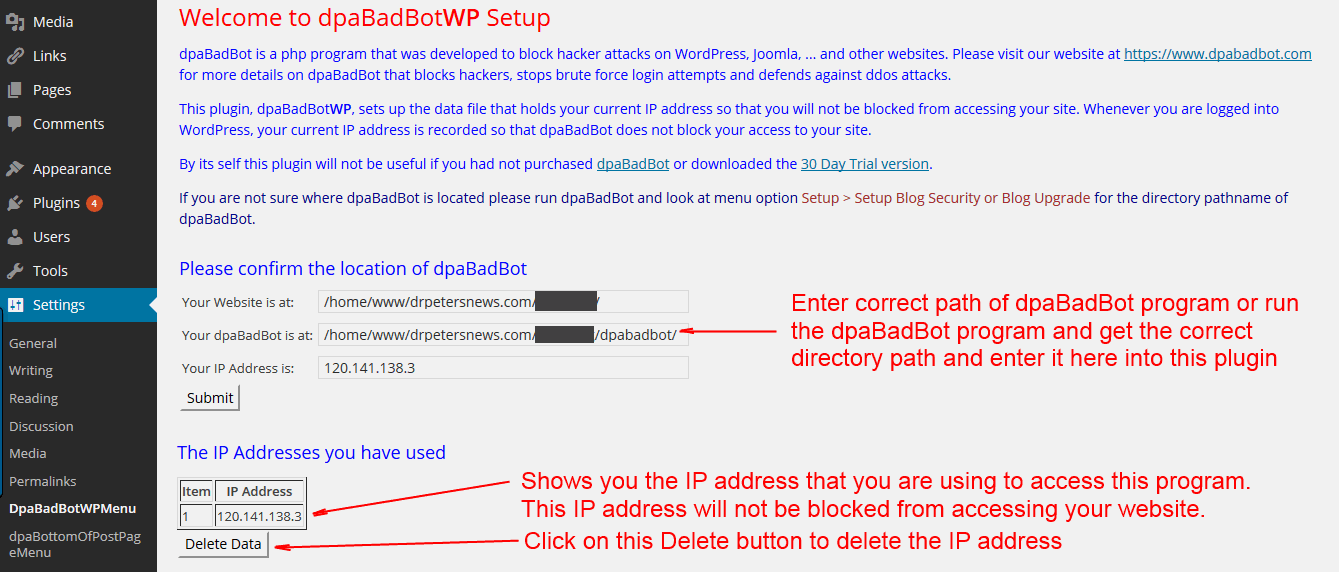
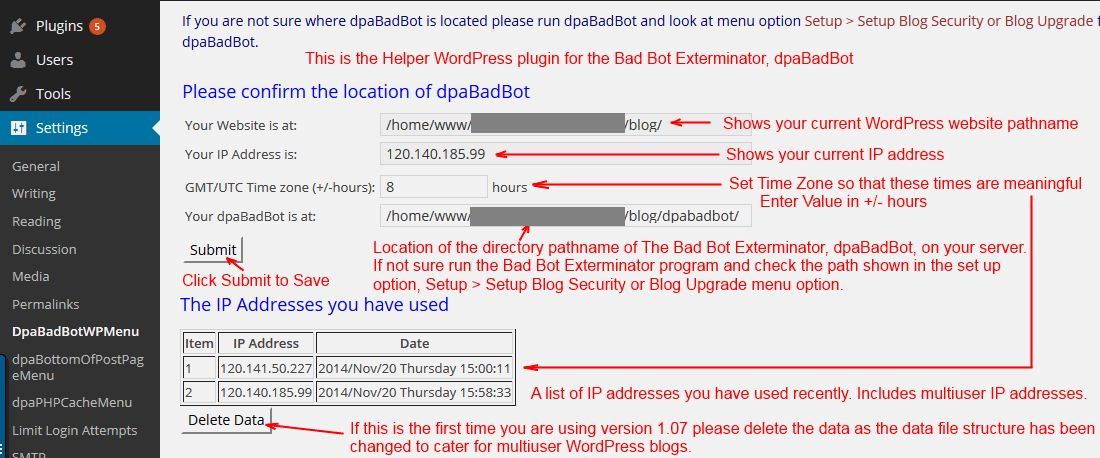
upgraded to handle multi user sites
git-svn-id: https://plugins.svn.wordpress.org/dpabadbotwp/trunk@1029337 b8457f37-d9ea-0310-8a92-e5e31aec5664

Changed region(s): [[0.0, 0.0, 1.0, 1.0]]

diff --git a/spmy_dpabadbot_form.php b/spmy_dpabadbot_form.php
@@ -3,36 +3,53 @@ defined('ABSPATH') or die("No script kiddies please!");
 //include 'spmyfunctions.php';
 
 
-
 //$spmy_dpabadbot_setup_file = $installbase.'wp-content/plugins/dpabadbotwp/setup.txt';
 $spmy_dpabadbot_setup_file = dirname(__FILE__) .'/setup.txt';
 $wppathstr = str_replace( 'wp-content/plugins/dpabadbotwp/setup.txt', '', $spmy_dpabadbot_setup_file);
 $spmy_dpabadbot_setup_tmp = spmy_dpabadbot_read_file( $spmy_dpabadbot_setup_file );
 $spmy_dpabadbot_setup_data = unserialize( $spmy_dpabadbot_setup_tmp );
 $spmy_dpabadbot_setup_sz = count( $spmy_dpabadbot_setup_data );
-if( strlen( $spmy_dpabadbot_setup_tmp ) > 2 && $spmy_dpabadbot_setup_sz > 0 ){
-	$spmy_dpabadbot_path = $spmy_dpabadbot_setup_data;
-//	echo '<br>set up file has data';
-}
 
+if( strlen( $spmy_dpabadbot_setup_tmp ) > 2 && $spmy_dpabadbot_setup_sz > 0 ){
+	$spmy_dpabadbot_path = $spmy_dpabadbot_setup_data[0];
+	$spmy_dpabadbot_GMThours = $spmy_dpabadbot_setup_data[1]/3600;
+//	echo '<br>set up file has data';
+} else {
+	$spmy_dpabadbot_path = '';
+	$spmy_dpabadbot_setup_data[0] = '';
+	$spmy_dpabadbot_GMThours = 0;
+	$spmy_dpabadbot_setup_data[1] = 0;
+}
+spmy_dpabadbot_write_file( $spmy_dpabadbot_setup_file, serialize( $spmy_dpabadbot_setup_data ) );
+//echo '<br>GMT is: '.$spmy_dpabadbot_GMThours.' ';
 
 if( $_POST[spmy_dpabadbot_setup] == 'Submit' ){
-//echo '<br>Yes Submit detected';
-if( isset( $_POST[spmy_dpabadbotsite] ) ) {
+unset($spmy_dpabadbot_setup_data ) ;
+
+//if( isset( $_POST[spmy_dpabadbotsite] ) ) {
 	$spmy_dpabadbot_sitenow = esc_url( trim( $_POST[spmy_dpabadbotsite] ) ); 
 	$spmy_dpabadbot_sitenow =  rtrim( trim( $spmy_dpabadbot_sitenow ), '/'); 	
 	$spmy_dpabadbot_sitenow = $spmy_dpabadbot_sitenow.'/';
 	$spmy_dpabadbot_path = $spmy_dpabadbot_sitenow ;
+//	echo '<br>sitenow is: '.$spmy_dpabadbot_sitenow.', path: '.$spmy_dpabadbot_path.'  ';
 	if( file_exists( $spmy_dpabadbot_sitenow ) ){
 		$spmy_dpabadbot_nofile = '<span style="color:blue;">'.$spmy_dpabadbot_sitenow.'</span><span style="color:green;"> directory exists</span>';
-		spmy_dpabadbot_write_file( $spmy_dpabadbot_setup_file, serialize( $spmy_dpabadbot_sitenow) );
+		$spmy_dpabadbot_setup_data[0] = $spmy_dpabadbot_sitenow ;
+		
 		} else {
 		$spmy_dpabadbot_nofile = '<span style="color:blue;">'.$spmy_dpabadbot_sitenow.'</span><span style="color:red;">   directory not found</span>';
+			}
+//}
+//if( isset( $_POST[spmy_dpabadbotGMT] ) ){
+	$spmy_dpabadbot_GMThours = 1*trim( $_POST[spmy_dpabadbotGMT] );
+	$spmy_dpabadbot_setup_data[1] = 3600*$spmy_dpabadbot_GMThours ;
+//	}
+
+if( file_exists( $spmy_dpabadbot_setup_file ) ){
+	unlink( $spmy_dpabadbot_setup_file );
 	}
-}
-else {
-//echo '<br>No ... No Submit detected';
-}
+clearstatcache();	
+spmy_dpabadbot_write_file( $spmy_dpabadbot_setup_file, serialize( $spmy_dpabadbot_setup_data ) );
 } 
 
 $spmy_dpabadbot_maxlen = 25 ;
@@ -48,7 +65,7 @@ $spmy_dpabadbot_maxlen = $spmy_dpabadbot_maxlen + 5;
 <div class="wrap">
 <?php
 $spmy_dpabadbot_ip = spmy_dpabadbot_get_client_ip();
-echo '<br><span style="color:red;font-size:24px;font-style:normal;">Welcome to dpaBadBot<b>WP</b> Setup (Version 1.06) </span>';
+echo '<br><span style="color:red;font-size:24px;font-style:normal;">Welcome to dpaBadBot<b>WP</b> Setup (Version 1.07) </span>';
 echo '<p><span style="color:blue;font-size:14px;font-style:normal;">dpaBadBot is a php program that was developed to block hacker attacks on WordPress, Joomla, ... and other websites. Please visit our website at <a target="_blank" href="https://www.dpabadbot.com">https://www.dpabadbot.com</a> for more details on dpaBadBot that blocks hackers, stops brute force login attempts and defends against ddos attacks.</p>
 <p><span style="color:blue;font-size:14px;font-style:normal;">This plugin, dpaBadBot<b>WP</b>, sets up the data file that holds your current IP address so that you will not be blocked from accessing your site. Whenever you are logged into WordPress, your current IP address is recorded so that dpaBadBot does not block your access to your site. 
 <p><span style="color:blue;font-size:14px;font-style:normal;">By its self this plugin will not be useful if you had not purchased <a target="_blank" href="https://www.dpabadbot.com">dpaBadBot</a> or downloaded the <a href="https://www.dpabadbot.com/30daydlCU.php?pdtno=5" target="_blank">30 Day Trial version</a>.  </span></p>
@@ -60,10 +77,12 @@ echo '<p><span style="color:blue;font-size:14px;font-style:normal;">dpaBadBot is
 <form action="<? echo htmlspecialchars( $PHP_SELF ) ; ?>"  method="post">
 <table>
 <tr><td>Your Website is at: </td><td><input type="text" readonly size="<?php echo $spmy_dpabadbot_maxlen; ?>" name="spmy_dpawebsiteis" value="<?php echo $wppathstr; ?>" ></td></tr>
+<tr><td>Your IP Address is: </td><td><input type="text" readonly size="<?php echo $spmy_dpabadbot_maxlen; ?>" name="spmy_dpawebsiteIP" value="<?php echo $spmy_dpabadbot_ip; ?>" ></td></tr>
 <tr><td></td><td></td></tr>
+<tr><td>GMT/UTC Time zone (+/-hours): </td><td><input type="text" size="10" name="spmy_dpabadbotGMT" value="<?php echo $spmy_dpabadbot_GMThours; ?>" > hours</td></tr>
 <tr><td>Your dpaBadBot is at: </td><td><input type="text" size="<?php echo $spmy_dpabadbot_maxlen; ?>" name="spmy_dpabadbotsite" value="<?php echo $spmy_dpabadbot_path; ?>" ><?php echo $spmy_dpabadbot_nofile ; ?></td></tr>
 <tr><td></td><td></td></tr>
-<tr><td>Your IP Address is: </td><td><input type="text" size="<?php echo $spmy_dpabadbot_maxlen; ?>" name="spmy_dpawebsiteIP" value="<?php echo $spmy_dpabadbot_ip; ?>" ></td></tr>
+
 </table>
 <input type="submit" name="spmy_dpabadbot_setup" value="Submit" >
 </form>
@@ -86,20 +105,42 @@ if( file_exists( $spmy_dpabadbot_ip_file ) ){
 
 
 if( file_exists( $spmy_dpabadbot_datadir ) ){
-spmy_dpabadbot_write_file( $spmy_dpabadbot_ip_file, serialize( $spmy_dpabadbot_ip) );
+//if( file_exists( $spmy_dpabadbot_datadir ) ){
+	if( file_exists( $spmy_dpabadbot_ip_file ) ){ 
+		$spmy_dpabadbot_ip_tmp = spmy_dpabadbot_read_file( $spmy_dpabadbot_ip_file );
+		if( strlen( $spmy_dpabadbot_ip_tmp ) > 2 ){
+			$spmy_dpabadbot_ip_addrs = unserialize( $spmy_dpabadbot_ip_tmp );
+			}
+		}
+//	}
+$spmy_dpabadbot_ip_addrs[$spmy_dpabadbot_ip][0] = $spmy_dpabadbot_ip;
+$spmy_dpabadbot_ip_addrs[$spmy_dpabadbot_ip][1] = time();
+spmy_dpabadbot_write_file( $spmy_dpabadbot_ip_file, serialize( $spmy_dpabadbot_ip_addrs) );
 
+$spmy_dpabadbot_ip_sz = count( $spmy_dpabadbot_ip_addrs );
+$spmy_dpabadbot_ip_tmp = serialize( $spmy_dpabadbot_ip_addrs );
+if( $spmy_dpabadbot_ip_sz > 0 && strlen( $spmy_dpabadbot_ip_tmp ) > 2 ){
 ?>
+
 <h2><span style="color:blue;font-size:18px;font-style:normal;">The IP Addresses you have used</span></h2>
 <form action="<? echo htmlspecialchars( $PHP_SELF ) ; ?>"  method="post">
 <table border='1'>
+<th>Item</th>
 <th>IP Address</th>
+<th>Date</th>
 <?php
-echo '<tr><td>'.$spmy_dpabadbot_ip.'</td></tr>';
+$spmy_dpabadbot_i=0;
+foreach( $spmy_dpabadbot_ip_addrs as $mykey => $myvalue){
+		$spmy_dpabadbot_i++;
+		$spmy_dpabadbot_tmp1 =  $spmy_dpabadbot_ip_addrs[$mykey][1] + $spmy_dpabadbot_setup_data[1]  ;
+		echo '<tr><td>'.$spmy_dpabadbot_i.'</td><td>'.$spmy_dpabadbot_ip_addrs[$mykey][0].'</td><td>'.date( "Y/M/d l H:i:s", $spmy_dpabadbot_tmp1 ).'</td></tr>';
+}
 ?>
 </table>
 <input type="submit" name="spmy_dpabadbot_deleteip" value="Delete Data" >
 </form>
 <?php
+}
 
 } else {
 echo '<span style="color:red;font-size:22px">Check your dpaBadBot directory exists</span><span style="color:blue;font-size:22px">. It should be http://www.mydomain.com/dpabadbot/ or something similar but ending with "/dpabadbot/". Please refer to dpaBadBot menu option</span> <span style="color:brown;font-size:22px">Setup > Setup Blog Security or Blog Upgrade</span>';
@@ -113,13 +154,14 @@ echo '<br><p><span style="color:darkblue;font-size:14px;font-style:normal;">If y
 
 <br><br>
 <?php
-$spmy_plugins_url = plugins_url().'/dpabadbotwp';
+$spmy_dpabadbot_plugins_dir = plugins_url().'/dpabadbotwp';
 ?>
 <h3>Other Products by Software Propulsion</h3>
 <table width="800">
-<tr><td style="color:blue;font-size:14px;font-style:normal;vertical-align:top;"><span style="color:red;">dpaContactUs</span> - Contact Form that makes life difficult for spammers. Multiple websites can share one email address.</td><td style="vertical-align:top;"><a target="_blank" href="http://www.dpacu.com"><img src="<?php echo $spmy_plugins_url.'/cufh30.png'; ?>" width="402" height="30"></a></td></tr>
-<tr><td style="color:darkblue;font-size:14px;font-style:normal;vertical-align:top;"><span style="color:red;">dpaBadBot</span> - Very effective anti hacking software that blocks hackers, stop brute force login attemtps and defends against ddos attacks to protect your WordPress website</td><td style="vertical-align:top;"><a target="_blank" href="https://www.dpabadbot.com"><img src="<?php echo $spmy_plugins_url.'/bbbh30.png'; ?>" width="402" height="30"></a></td></tr>
-<tr><td style="color:blue;font-size:14px;font-style:normal;vertical-align:top;"><span style="color:red;">xfcPHPCache</span> - Not for WordPress, Joomla or other blogs but for other php websites. PHP Caching Software</td><td style="vertical-align:top;"><a target="_blank" href="http://www.dpaxfc.com"><img src="<?php echo $spmy_plugins_url.'/xfch30.png'; ?>" width="402" height="30"></a></td></tr>
-<tr><td style="color:darkblue;font-size:14px;font-style:normal;vertical-align:top;"><span style="color:red;">dpaImageCompression</span> - Image Compression. Compresses images you have saved on your websites.</td><td style="vertical-align:top;"><a target="_blank" href="http://www.dpaic.com"><img src="<?php echo $spmy_plugins_url.'/ich30.png'; ?>"  width="402" height="30"></a></td></tr>
-<tr><td style="color:blue;font-size:14px;font-style:normal;vertical-align:top;"><span style="color:red;">Web Hosting Services</span> - from budget hosting to high performance sites.</td><td style="vertical-align:top;"><a target="_blank" href="http://www.peterpublishing.com"><img src="<?php echo $spmy_plugins_url.'/webhostingservicesh30.png'; ?>" width="405" height="30"></a></td></tr>
+<tr><td style="color:darkblue;font-size:14px;font-style:normal;vertical-align:top;"><span style="color:red;">dpaPHPCache</span> - SuperFast Cache for WordPress. SuperFast Cache is in 2 modules. The 1st is the Cache Controller, in dpaPHPCache - a WordPress Plugin & the 2nd is built into dpaBadBot, The Bad Bot Exterminator & Firewall Shield.</td><td style="vertical-align:top;"><a target="_blank" href="https://www.dpabadbot.com/amazingly-super-fast-wordpress-plugin-cache-controller-and-php-accelerator.php"><img src="<?php echo $spmy_dpabadbot_plugins_dir.'/sfc30.png'; ?>" width="402" height="30"></a></td></tr>
+<tr><td style="color:blue;font-size:14px;font-style:normal;vertical-align:top;"><span style="color:red;">dpaContactUs</span> - Contact Form that makes life difficult for spammers. Multiple websites can share one email address.</td><td style="vertical-align:top;"><a target="_blank" href="http://www.dpacu.com"><img src="<?php echo $spmy_dpabadbot_plugins_dir.'/cufh30.png'; ?>" width="402" height="30"></a></td></tr>
+<tr><td style="color:darkblue;font-size:14px;font-style:normal;vertical-align:top;"><span style="color:red;">dpaBadBot</span> - The Bad Bot Exterminator. Very effective anti hacking software that blocks hackers, stop brute force login attemtps and defends against ddos attacks to protect your WordPress website</td><td style="vertical-align:top;"><a target="_blank" href="https://www.dpabadbot.com"><img src="<?php echo $spmy_dpabadbot_plugins_dir.'/bbbh30.png'; ?>" width="402" height="30"></a></td></tr>
+<tr><td style="color:blue;font-size:14px;font-style:normal;vertical-align:top;"><span style="color:red;">xfcPHPCache</span> - Not for WordPress, Joomla or other blogs but for other php websites. PHP Caching Software</td><td style="vertical-align:top;"><a target="_blank" href="http://www.dpaxfc.com"><img src="<?php echo $spmy_dpabadbot_plugins_dir.'/xfch30.png'; ?>" width="402" height="30"></a></td></tr>
+<tr><td style="color:darkblue;font-size:14px;font-style:normal;vertical-align:top;"><span style="color:red;">dpaImageCompression</span> - Image Compression. Compresses images you have saved on your websites.</td><td style="vertical-align:top;"><a target="_blank" href="http://www.dpaic.com"><img src="<?php echo $spmy_dpabadbot_plugins_dir.'/ich30.png'; ?>"  width="402" height="30"></a></td></tr>
+<tr><td style="color:blue;font-size:14px;font-style:normal;vertical-align:top;"><span style="color:red;">Web Hosting Services</span> - from budget hosting to high performance sites.</td><td style="vertical-align:top;"><a target="_blank" href="http://www.peterpublishing.com"><img src="<?php echo $spmy_dpabadbot_plugins_dir.'/webhostingservicesh30.png'; ?>" width="405" height="30"></a></td></tr>
 </table>

diff --git a/dpabadbotWP-functionality.php b/dpabadbotWP-functionality.php
@@ -2,8 +2,8 @@
 /**
  * Plugin Name: dpaBadBotWP
  * Plugin URI: https://www.dpabadbot.com/dpabadbotwp-wordpress-plugin-for-dpabadbot.php
- * Description: dpaBadtBotWP is a plugin to be used with dpaBadBot Shield php program. The dpaBadBotWP plugin sends dpaBadBot your IP address automatically, so that you will not be blocked. You need to purchase dpaBadBot separately or download the 30 Day Trial version before using this plugin, dpaBadBotWP. dpaBatBot (not the plugin) can lock up WordPress so that no one can login - stops hackers from logging in and can track who are your visitors. By tracking visitors it blocks hackers, spiders, crawlers, scrappers, all of whom overload your server and hack your site. You can manually block by IP address and by spider or bad bot name.
- * Version: 1.06
+ * Description: dpaBadtBotWP is a plugin to be used with dpaBadBot Shield php program. The dpaBadBotWP plugin sends dpaBadBot your IP address automatically, so that you will not be blocked. You need to purchase dpaBadBot separately or download the 30 Day Trial version before using this plugin, dpaBadBotWP. dpaBatBot (not the plugin) can lock up WordPress so that no one can login - stops hackers from logging in and can track who are your visitors. By tracking visitors it blocks hackers, spiders, crawlers, scrappers, all of whom overload your server and hack your site. You can manually block by IP address and by spider or bad bot name. Add multiuser tracking of IP addresses.
+ * Version: 1.07
  * Author: Dr. Peter Achutha
  * Author URI: https://www.facebook.com/peter.achutha
  * License: 
@@ -48,7 +48,7 @@ add_options_page("dpaBadBotWP", "DpaBadBotWPMenu", 'administrator', "dpaBadBotWP
 
 }
  
- 
+
 
 function spmy_dpabadbot_read_file( $f ){
 $tmpstr = '';
@@ -77,7 +77,7 @@ $spmy_dpabadbot_setup_tmp = spmy_dpabadbot_read_file( $spmy_dpabadbot_setup_file
 $spmy_dpabadbot_setup_data = unserialize( $spmy_dpabadbot_setup_tmp );
 $spmy_dpabadbot_setup_sz = count( $spmy_dpabadbot_setup_data );
 if( strlen( $spmy_dpabadbot_setup_tmp ) > 2 && $spmy_dpabadbot_setup_sz > 0 ){
-	$spmy_dpabadbot_path = $spmy_dpabadbot_setup_data;
+	$spmy_dpabadbot_path = $spmy_dpabadbot_setup_data[0];
 //	echo '<br>set up file has data';
 }
 
@@ -87,16 +87,58 @@ $spmy_dpabadbot_datadir = $spmy_dpabadbot_path.'data/';
 $spmy_dpabadbot_ip_file = $spmy_dpabadbot_path.'data/wpipadd.txt';
 
 
-//check dpabadbot files exists
-$spmy_dpabadbot_datadir = $spmy_dpabadbot_path.'data/';
-$spmy_dpabadbot_ip_file = $spmy_dpabadbot_path.'data/wpipadd.txt';
+//declare the function
+if( !function_exists( 'spmy_dpabadbot_deleteipadd' )){
+function spmy_dpabadbot_deleteipadd(){
+$spmy_dpabadbot_setup_file = dirname(__FILE__) .'/setup.txt';
+$spmy_dpabadbot_setup_tmp = spmy_dpabadbot_read_file( $spmy_dpabadbot_setup_file );
+$spmy_dpabadbot_setup_data = unserialize( $spmy_dpabadbot_setup_tmp );
+$spmy_dpabadbot_setup_sz = count( $spmy_dpabadbot_setup_data );
+
+if( strlen( $spmy_dpabadbot_setup_tmp ) > 2 && $spmy_dpabadbot_setup_sz > 0 ){
+	$spmy_dpabadbot_path = $spmy_dpabadbot_setup_data[0];
+	//check dpabadbot files exists
+	$spmy_dpabadbot_datadir = $spmy_dpabadbot_path.'data/';
+	$spmy_dpabadbot_ip_file = $spmy_dpabadbot_path.'data/wpipadd.txt';
+	if( file_exists( $spmy_dpabadbot_datadir ) ){
+		if( file_exists( $spmy_dpabadbot_ip_file ) ){ 
+			$spmy_dpabadbot_ip_tmp = spmy_dpabadbot_read_file( $spmy_dpabadbot_ip_file ) ;
+			if( strlen( $spmy_dpabadbot_ip_tmp ) > 6 ){//find all ip addresses older than 2 days and delete
+			$spmy_dpabadbot_ip_addrs = unserialize( $spmy_dpabadbot_ip_tmp );
+			$spmy_dpabadbot_ip_time = (time()- 86400) ;
+			foreach( $spmy_dpabadbot_ip_addrs as $mykey => $myvalue){
+				if( $spmy_dpabadbot_ip_addrs[$mykey][1] < $spmy_dpabadbot_ip_time ){
+					unset( $spmy_dpabadbot_ip_addrs[$mykey] );
+					}	
+				}
+			spmy_dpabadbot_write_file( $spmy_dpabadbot_ip_file, serialize( $spmy_dpabadbot_ip_addrs) );	
+			}
+	
+			$spmy_dpabadbot_ip = spmy_dpabadbot_get_client_ip();	//get ip address
+			$spmy_dpabadbot_ip_tmp = spmy_dpabadbot_read_file( $spmy_dpabadbot_ip_file );
+			if( strlen( $spmy_dpabadbot_ip_tmp ) > 6 ){
+				$spmy_dpabadbot_ip_addrs = unserialize( $spmy_dpabadbot_ip_tmp );
+				}
+				if( !isset( $spmy_dpabadbot_ip_addrs[$spmy_dpabadbot_ip] ) ){
+				$spmy_dpabadbot_ip_addrs[$spmy_dpabadbot_ip][0] = $spmy_dpabadbot_ip ;
+				$spmy_dpabadbot_ip_addrs[$spmy_dpabadbot_ip][1] = time() ;				
+				spmy_dpabadbot_write_file( $spmy_dpabadbot_ip_file, serialize( $spmy_dpabadbot_ip_addrs) );
+				}
+				
+			}
+
+		}
+	}
+}
+}
+
+
 
 		
 if ( is_admin() ){
 
 	if( function_exists( 'spmy_dpabadbot_actions')) {
 		add_action('admin_menu', 'spmy_dpabadbot_actions');	
-		
 	if( file_exists( $spmy_dpabadbot_datadir ) ){
 		if( file_exists( $spmy_dpabadbot_ip_file ) ){ 
 			$spmy_dpabadbot_ip_tmp = spmy_dpabadbot_read_file( $spmy_dpabadbot_ip_file );
@@ -105,11 +147,26 @@ if ( is_admin() ){
 				}
 			}
 	$spmy_dpabadbot_ip = spmy_dpabadbot_get_client_ip();
-	spmy_dpabadbot_write_file( $spmy_dpabadbot_ip_file, serialize( $spmy_dpabadbot_ip) );
+	if( !isset( $spmy_dpabadbot_ip_addrs[$spmy_dpabadbot_ip])) {
+	$spmy_dpabadbot_ip_addrs[$spmy_dpabadbot_ip][0] = $spmy_dpabadbot_ip;
+	$spmy_dpabadbot_ip_addrs[$spmy_dpabadbot_ip][1] = time();
+	spmy_dpabadbot_write_file( $spmy_dpabadbot_ip_file, serialize( $spmy_dpabadbot_ip_addrs) );
 	}
 	}
-	
+	}
+//	if( function_exists( 'spmy_dpabadbot_deleteipadd')) {
+//		echo '<br><span style="color:red;font-size:24px;">function delete ip add action to logout</span>';
+//		add_action('wp_logout', 'spmy_dpabadbot_deleteipadd', 5); //this aaction does not work
+//		}
+	if( function_exists( 'spmy_dpabadbot_deleteipadd')) {
+		spmy_dpabadbot_deleteipadd();
+		}
 }
 
+
+	
+//	if ( is_admin() ){
+
+//	}	
 
 
